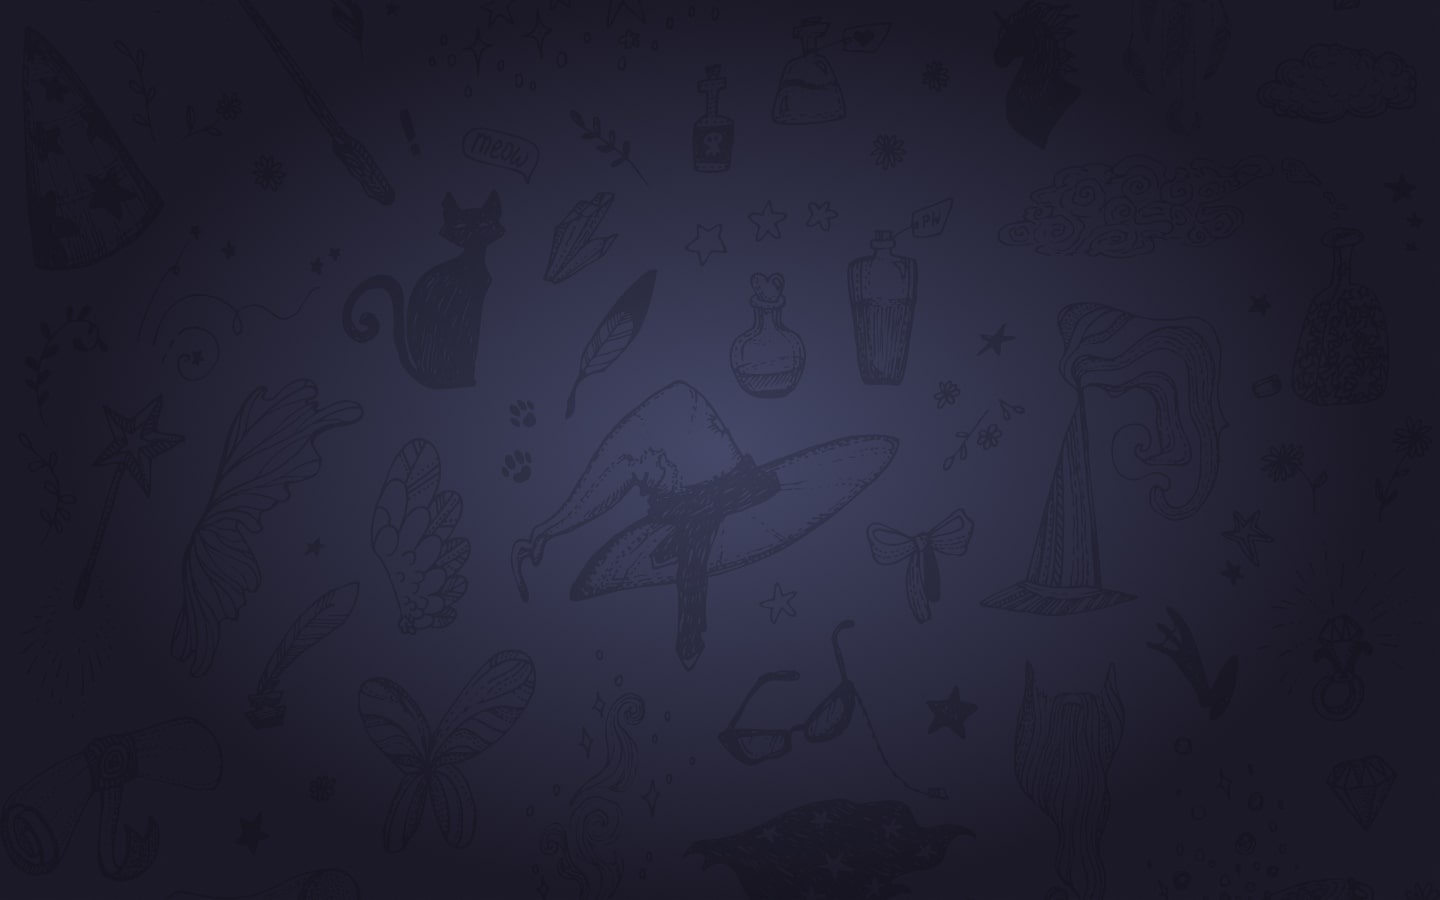
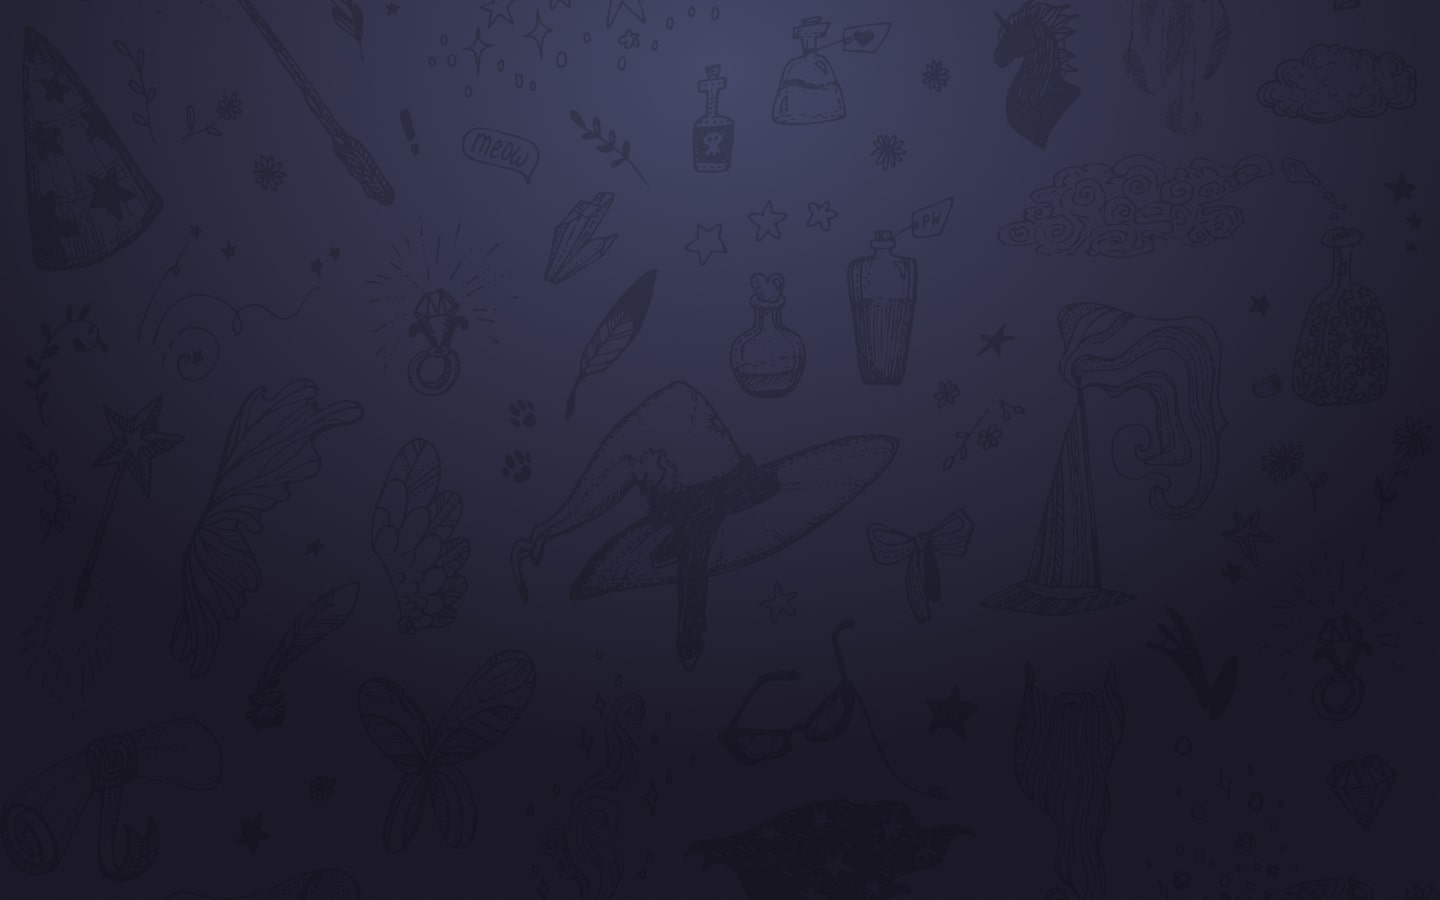
UI tweaks (#35)

Changed region(s): [[0.0938, 0.0, 0.9062, 0.28], [0.3438, 0.4356, 0.625, 0.7778]]

diff --git a/src/components/shared/welcomeToast.tsx b/src/components/shared/welcomeToast.tsx
@@ -2,7 +2,7 @@ import { useEffect } from 'react';
 import { useToast } from '@chakra-ui/toast';
 import { Box, Link, Text } from '@chakra-ui/layout';
 import { Image } from '@chakra-ui/image';
-import { IconButton } from '@chakra-ui/button';
+import { Button, IconButton } from '@chakra-ui/button';
 import { IoCloseCircle } from 'react-icons/io5';
 import pot3d from '../../img/pot-3d.png';
 
@@ -26,24 +26,32 @@ const WelcomeToast = () => {
         render: () => (
           <Box
             m={4}
-            p={8}
+            p={6}
             bg='gray.700'
             position='relative'
             borderRadius='3xl'
-            width={['320px', '320px', '340px']}
+            width='330px'
           >
-            <Box ml={20}>
-              <Text fontWeight='bold'>
-                First time minting a crucible? Read our{' '}
-                <Link
-                  isExternal
-                  href='https://hackmd.io/@alchemistcoin/HyJXT7tL_/%2FrJSJU5PIu#AludelCrucible-FAQ'
-                  color='blue.500'
-                  fontWeight='bold'
-                >
-                  FAQs.
-                </Link>
+            <Box ml={28}>
+              <Text fontWeight='bold' mb={2}>
+                First time minting a crucible?
               </Text>
+              <Button
+                as={Link}
+                color='white'
+                variant='outline'
+                fontWeight='normal'
+                borderWidth='2px'
+                borderColor='cyan.400'
+                isExternal
+                isFullWidth
+                href='https://hackmd.io/@alchemistcoin/HyJXT7tL_/%2FrJSJU5PIu#AludelCrucible-FAQ'
+                _hover={{
+                  textDecor: 'none',
+                }}
+              >
+                Read FAQs
+              </Button>
             </Box>
             <IconButton
               bg='none'
@@ -62,8 +70,8 @@ const WelcomeToast = () => {
               src={pot3d}
               top={-10}
               left={0}
-              height='160px'
-              htmlHeight='160px'
+              height='186px'
+              htmlHeight='186px'
               position='absolute'
             />
           </Box>

diff --git a/src/components/layout/footer.tsx b/src/components/layout/footer.tsx
@@ -4,7 +4,7 @@ import { Flex, HStack, Link as ChakraLink, Box } from '@chakra-ui/layout';
 
 const Footer = () => {
   return (
-    <Flex py={4} alignItems='center' flexDirection='column'>
+    <Flex p={4} alignItems='flex-end' flexDirection='column'>
       <Box>
         <HStack spacing={4}>
           {externalLinks.map(({ href, label, icon: Icon }) => (
@@ -35,12 +35,6 @@ const Footer = () => {
       </Box>
       <Box py={2}>
         <HStack spacing={4}>
-          <ChakraLink
-            href='https://hackmd.io/@alchemistcoin/HyJXT7tL_/%2FrJSJU5PIu'
-            target='_blank'
-          >
-            Documentation
-          </ChakraLink>
           <ChakraLink
             href='https://hackmd.io/@alchemistcoin/HyJXT7tL_/%2FrJSJU5PIu#AludelCrucible-FAQ'
             target='_blank'

diff --git a/src/utils/network.ts b/src/utils/network.ts
@@ -10,17 +10,17 @@ export enum Network {
 export function networkName(networkId: Network) {
   switch (Number(networkId)) {
     case 1:
-      return 'main';
+      return 'Mainnet';
     case 3:
-      return 'ropsten';
+      return 'Ropsten';
     case 4:
-      return 'rinkeby';
+      return 'Rinkeby';
     case 5:
-      return 'goerli';
+      return 'Goerli';
     case 6:
-      return 'kotti';
+      return 'Kotti';
     case 42:
-      return 'kovan';
+      return 'Kovan';
     default:
       return 'localhost';
   }

diff --git a/src/context/web3/notify.tsx b/src/context/web3/notify.tsx
@@ -37,7 +37,7 @@ const NotifyProvider = ({ children }: NotifyContextProps) => {
         return {
           message: `Your transaction is pending, click <a href="https://${networkName(
             network
-          )}.etherscan.io/tx/${
+          ).toLowerCase()}.etherscan.io/tx/${
             transaction.hash
           }" rel="noopener noreferrer" target="_blank">here</a> for more info.`,
         };

diff --git a/src/pages/crucibleMinting.tsx b/src/pages/crucibleMinting.tsx
@@ -28,7 +28,7 @@ const CrucibleMinting = () => {
           <Flex justifyContent='center' alignItems='center' flexGrow={1}>
             <Spinner />
           </Flex>
-        ) : network && networkUnsupported ? (
+        ) : address && networkUnsupported ? (
           <Flex justifyContent='center' alignItems='center' flexGrow={1}>
             <VStack>
               <Spinner />

diff --git a/src/components/modals/tx/txConfirmedModal.tsx b/src/components/modals/tx/txConfirmedModal.tsx
@@ -23,7 +23,7 @@ const TxConfirmedModal: React.FC<Props> = ({ onClose, hash }) => {
 
   const etherscanLink = `https://${networkName(
     network || 1
-  )}.etherscan.io/tx/${hash}`;
+  ).toLowerCase()}.etherscan.io/tx/${hash}`;
 
   return (
     <Modal isOpen={true} onClose={onClose}>

diff --git a/src/App.tsx b/src/App.tsx
@@ -15,7 +15,6 @@ const App: React.FC = () => {
       minHeight='100vh'
       flexDirection='column'
       background={`url(${bg})`}
-      backgroundPosition='center'
       backgroundRepeat='no-repeat'
       backgroundAttachment='fixed'
       backgroundSize='cover'

diff --git a/src/utils/address.ts b/src/utils/address.ts
@@ -1,7 +1,7 @@
 export function truncate(
   string: String = '',
-  start: number = 6,
-  end: number = 4
+  start: number = 5,
+  end: number = 3
 ) {
   if (start < 1 || end < 1) {
     return string;
